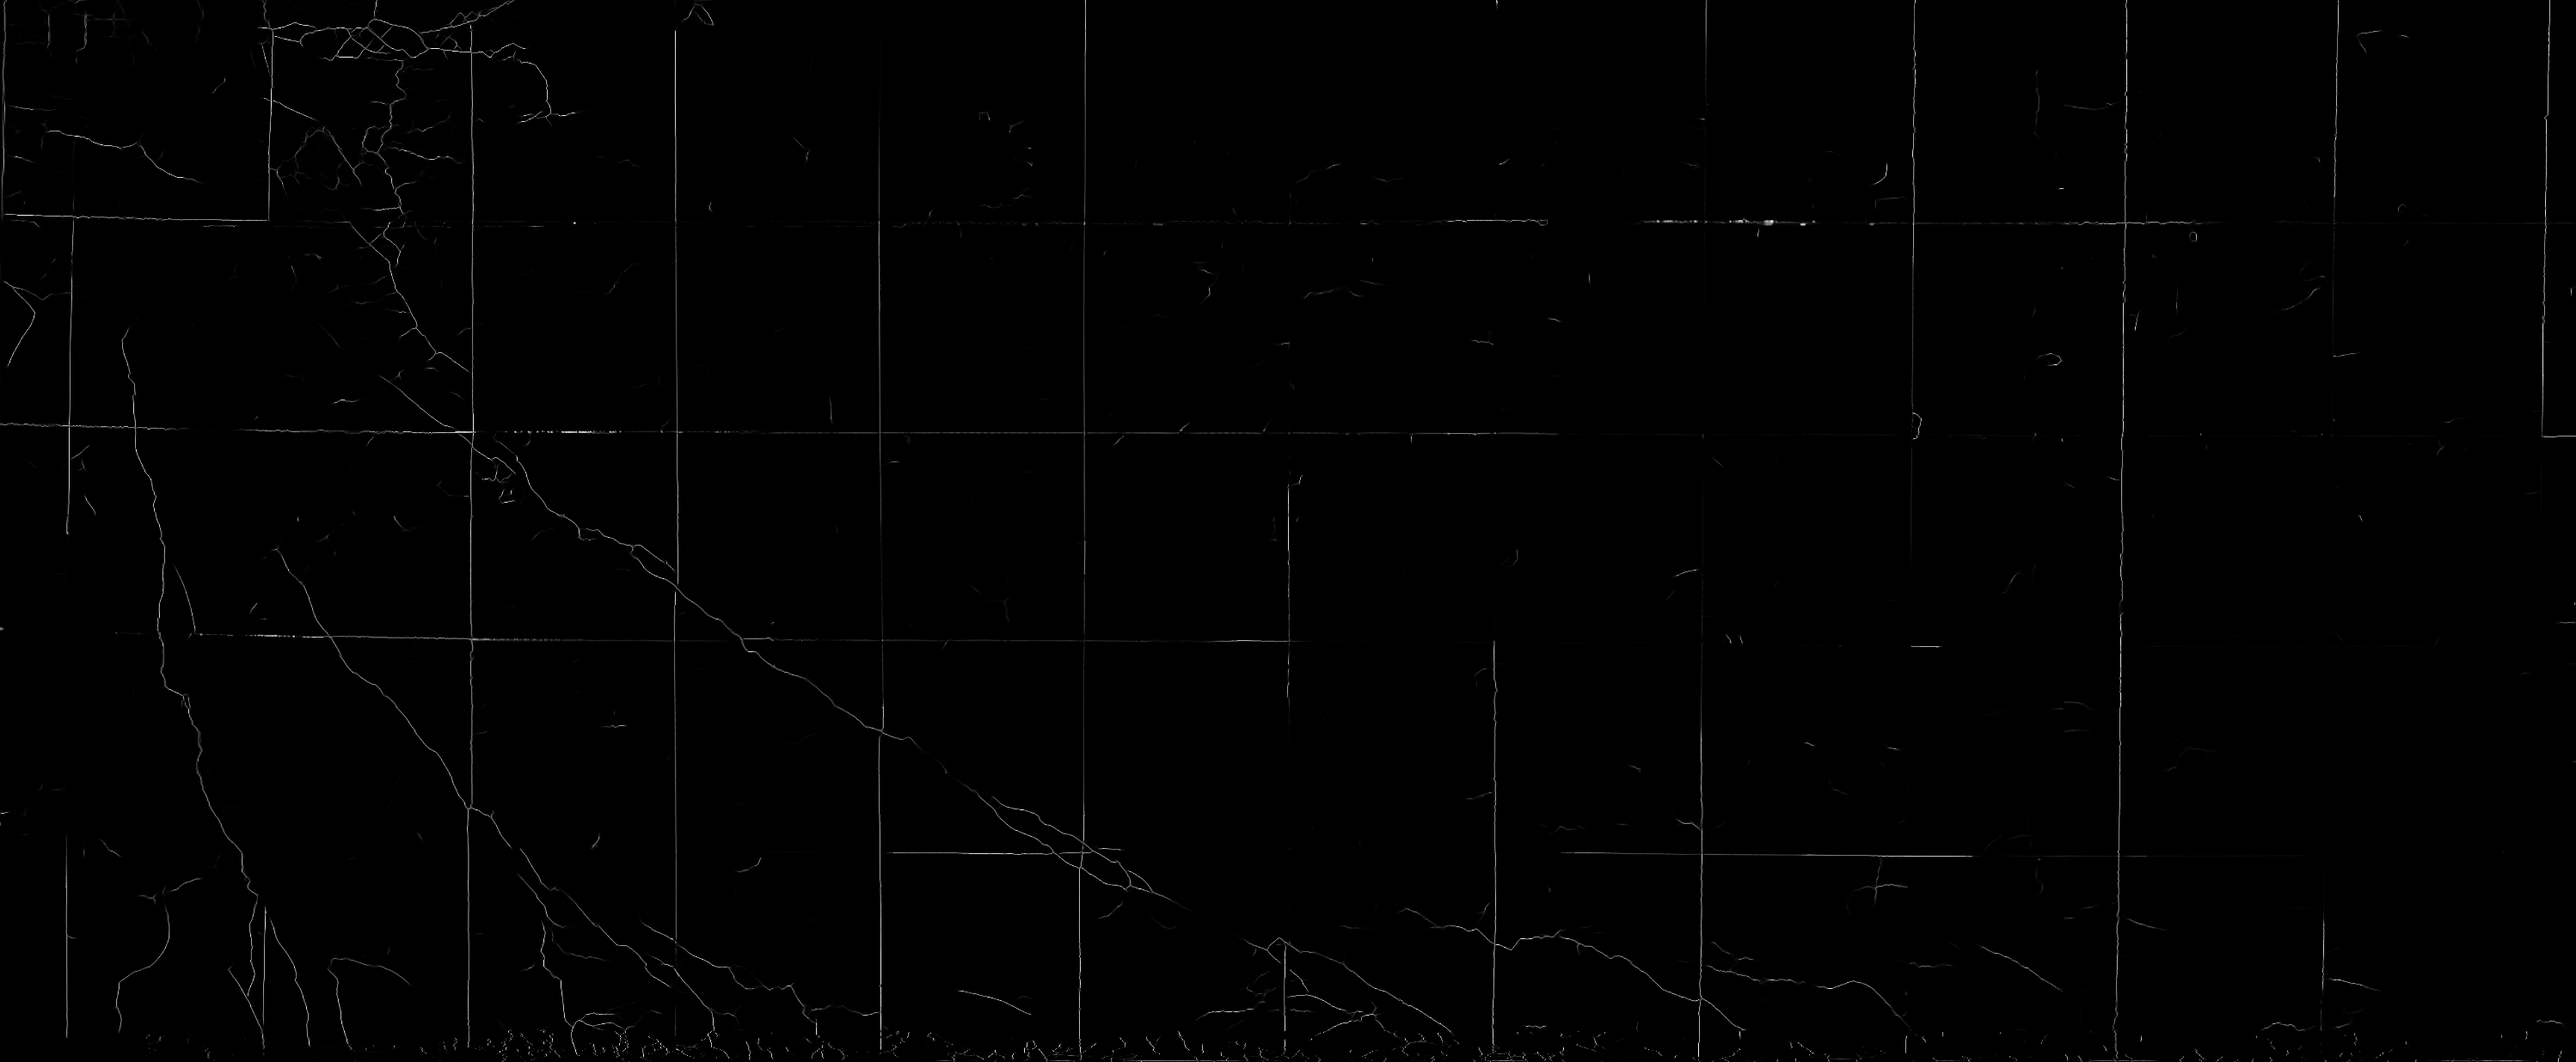
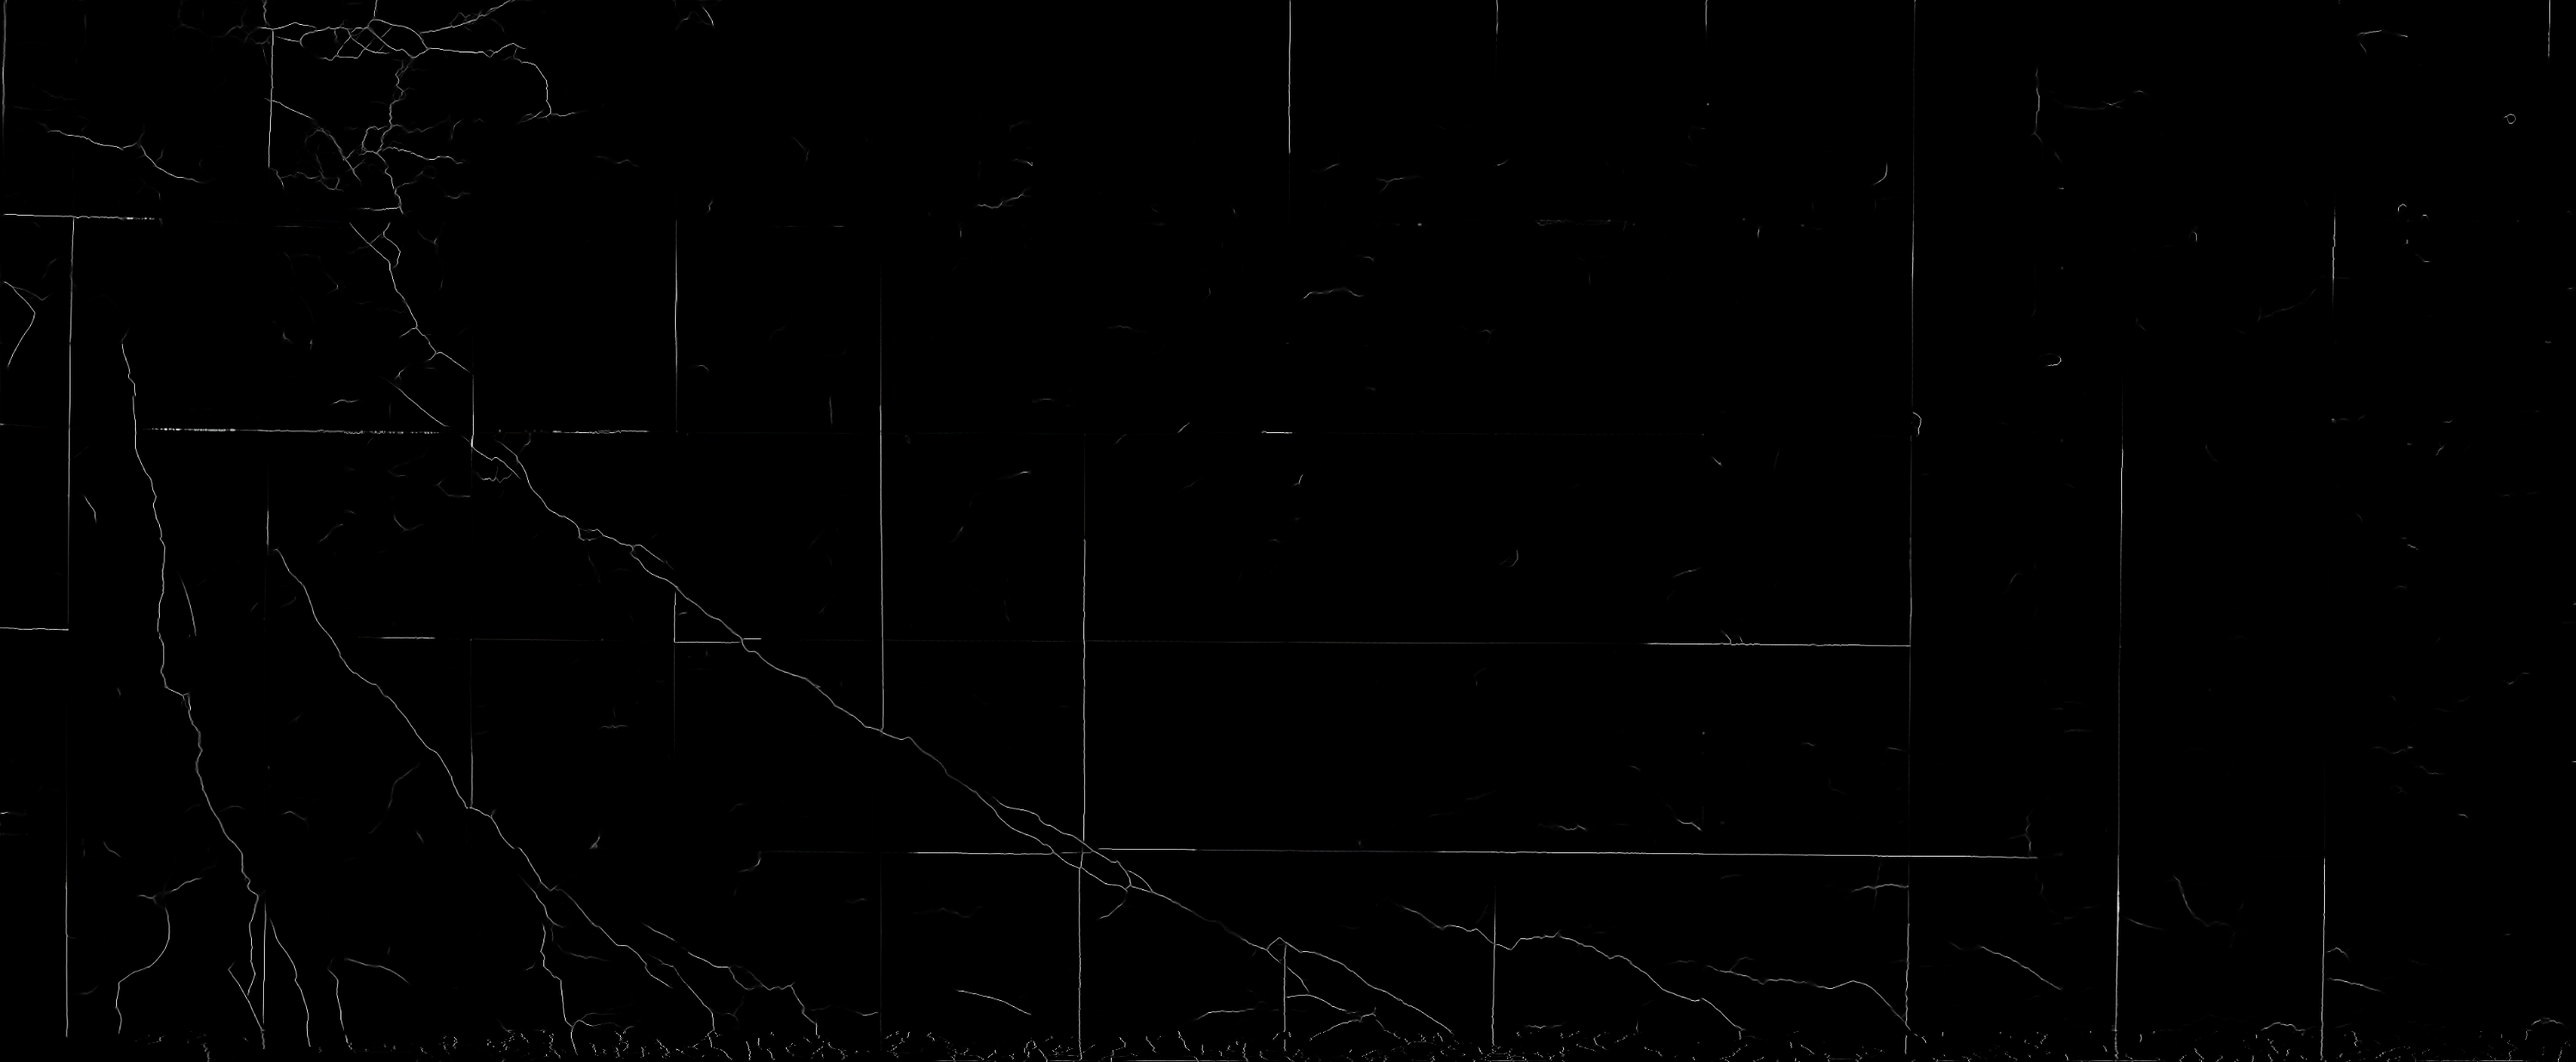
added a try catch block for line segmentator

diff --git a/remove_gridlines.py b/remove_gridlines.py
@@ -174,9 +174,9 @@ def remove_gridlines(img, parent_folder, mask_thickness=2, activate_grid_mask_re
             print(f"[INFO] Proceeding with grid lines removal with mask thickness: {THICKNESS}...")
             #we need to drive out more details so tile size should be reduced
             if (not make_reference_image):
-                tile_size = 300
-            if (img.shape[1] > 3000):
-                tile_size = img.shape[0]/2
+                tile_size = 400
+            # if (img.shape[1] > 2700):
+            #     tile_size = img.shape[0]/2
             deepCrackImg = start_deepcrack_pipeline(img,
                                                     f"{deep_crack_dir_string}/input_tiles",
                                                     original_h=img.shape[0],
@@ -210,18 +210,27 @@ def remove_gridlines(img, parent_folder, mask_thickness=2, activate_grid_mask_re
     return output, deepCrackImg,mask
 
 def create_mask_pipeline(deepcrack_crack_image, thickness, run_line_segmentator=False):
+    line_seg_success = False
+    img_from_line_segmentor = None
     if (run_line_segmentator):
         save_dir=f"{line_segment_dir_string}/dataset/pinhole"
         move_img_to_input_folder(deepcrack_crack_image, save_dir)
         try:
-            run_line_segmentor()
+            seg_result = run_line_segmentor()
+            if seg_result:
+                output_path = f"{line_segment_dir_string}/output/pinhole/1.png"
+                if os.path.exists(output_path):
+                    _,img_from_line_segmentor = extract_and_hough_filter_tol(output_path,3,3,thickness)
+                    line_seg_success = True
+                else:
+                    print("[WARN] Line segmentor output file not found. Skipping line segmentor.")
+            else:
+                print("[WARN] Line segmentor returned failure. Skipping line segmentor.")
         except Exception as e:
-            print(f"[ERROR] Line segementor error: {e}")
-            return None
-    
-        _,img_from_line_segmentor = extract_and_hough_filter_tol(f"{line_segment_dir_string}/output/pinhole/1.png",3,3,thickness)
+            print(f"[WARN] Line segmentor error: {e}. Skipping line segmentor.")
+
     hough_mask = make_mask_from_deepcrack_img(deepcrack_crack_image, thickness)
-    if (run_line_segmentator):
+    if line_seg_success and img_from_line_segmentor is not None:
         output = merge_masks(img_from_line_segmentor, hough_mask)
     else:
         output = hough_mask

diff --git a/crack.py b/crack.py
@@ -30,6 +30,10 @@ from gen_ref_mask import get_reference_path, create_reference as gen_ref_create_
 ##############################################################################
                         # GLOBAL VARIABLES & CONSTANTS
 ##############################################################################
+
+user_prefered_window_h = None
+user_prefered_window_w = None
+
 make_reference_image = False
 NUM_SCALING_IMAGES = 13  
 image_files = []
@@ -1110,12 +1114,17 @@ def main_loop():
         messagebox.showerror("Error", "No image loaded. Please check the folder path.")
         return
 
-    cv2.namedWindow("Crack Detection",cv2.WINDOW_NORMAL)
+    cv2.namedWindow("Crack Detection",cv2.WINDOW_KEEPRATIO)
     cv2.setWindowTitle("Crack Detection", "Crack Detection - " + os.path.basename(image_files[current_image_index]))
-    window_h, window_w = image.shape[:2]
-    window_h = int(window_h/scale_image_factor)
-    window_w = int(window_w/scale_image_factor)
+    if (user_prefered_window_w is None and user_prefered_window_h is None):
+        window_h, window_w = image.shape[:2]
+        window_h = int(window_h/scale_image_factor)
+        window_w = int(window_w/scale_image_factor)
+    else:
+        window_h = user_prefered_window_h
+        window_w = user_prefered_window_w
     cv2.resizeWindow("Crack Detection", window_w, window_h)
+    print(f"window_h: {window_h}, window_w: {window_w}")
 
     cv2.setMouseCallback("Crack Detection", on_mouse)
 

diff --git a/gen_ref_mask.py b/gen_ref_mask.py
@@ -109,13 +109,17 @@ def create_reference(dataset_folder=None, image_path=None):
     image = scale_image(image, 2)
     
     print("[INFO] Removing gridlines...")
-    output_img, deepcrack_img_with_grids, mask = remove_gridlines(
+    gridline_result = remove_gridlines(
         image,
         os.path.dirname(image_path),
         GRID_MASK_THICKNESS,
         activate_grid_mask_recreation=ACTIVATE_GRID_MASK_RECREATION,
         make_reference_image=MAKE_REFERENCE_IMAGE
     )
+    if gridline_result is None:
+        print("[ERROR] Grid lines removal failed. Cannot create reference.")
+        return None
+    output_img, deepcrack_img_with_grids, mask = gridline_result
 
     print("[INFO] Running Deep Crack Extraction...")
     binary_mask = getBinaryImage(

diff --git a/reference_image_editor.py b/reference_image_editor.py
@@ -44,11 +44,11 @@ def get_binary_image_of_cracks(gen_binary_mask, threshold=23, alpha=0.68, beta=1
     _, binary_image = cv2.threshold(brightened_image, threshold, 255, cv2.THRESH_BINARY_INV)
     binary_image = 255 - binary_image  # invert black <-> white
     
-    # Apply thickness: erode white region to expand black crack pixels
+    # Apply thickness: dilate to expand white crack pixels (make cracks thicker)
     if thickness > 0:
         kernel_size = 2 * thickness + 1
         kernel = np.ones((kernel_size, kernel_size), np.uint8)
-        binary_image = cv2.erode(binary_image, kernel, iterations=1)
+        binary_image = cv2.dilate(binary_image, kernel, iterations=1)
     
     return binary_image
 
